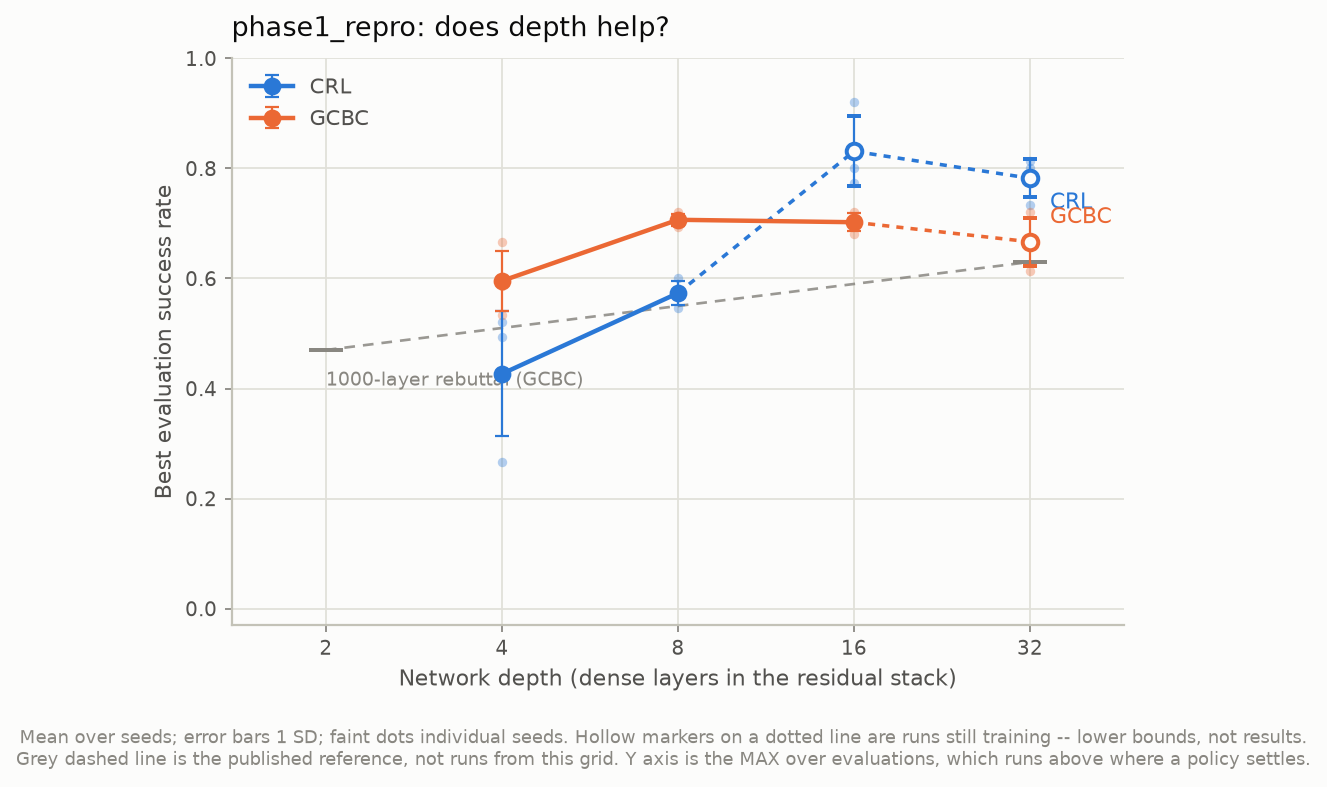
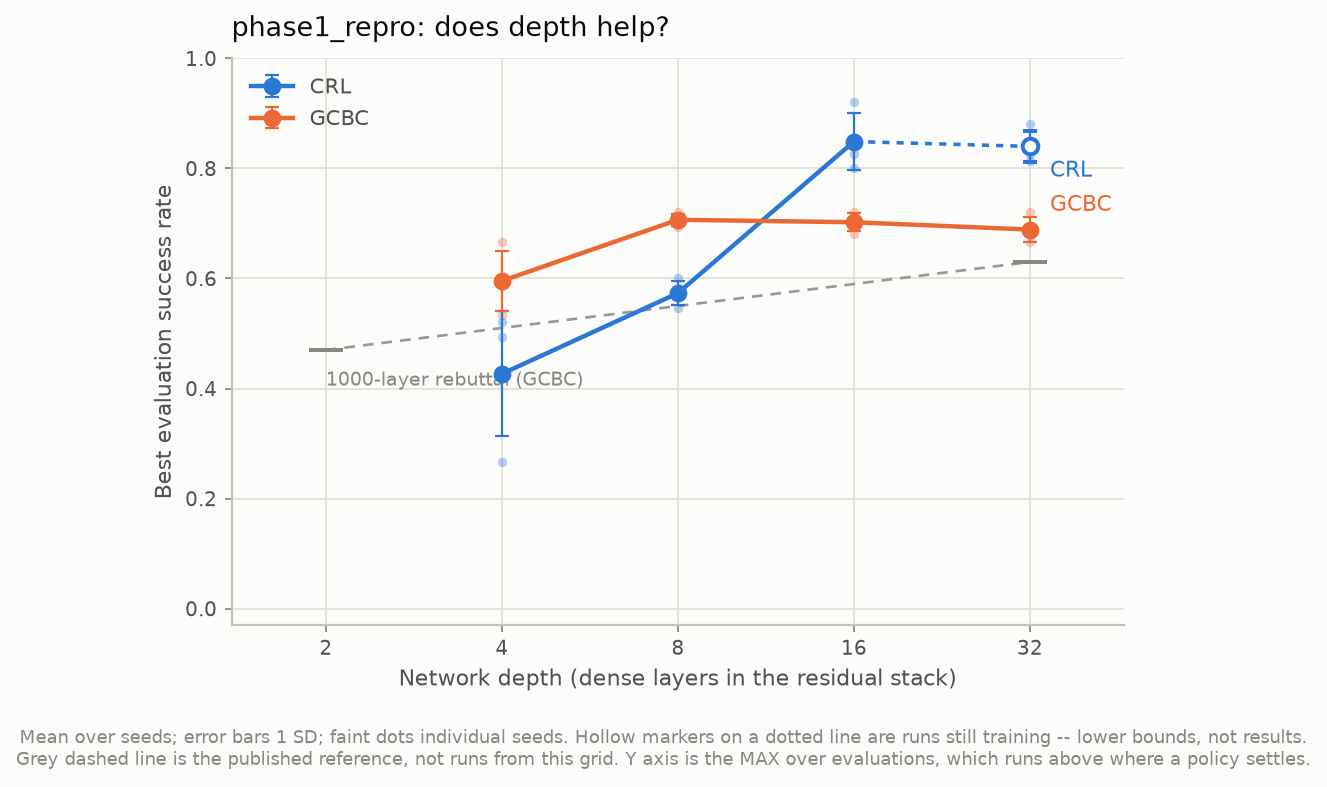
CRL d16 and GCBC d32 finished; refresh figures and fix a step-pin bug
21 of 24 repro runs are done; only CRL depth 32 is still training (~575k of
2M). The CRL depth trend survives completion and the seed spread tightens:
34.1 +- 9.8, 49.3 +- 3.8, 71.4 +- 1.9 at depths 4/8/16.

Fixes a bug of my own making. last3_mean(up_to_step=1M) filtered evaluations
to step <= 1M and took the last three, but never checked the run had REACHED
1M -- so a depth-32 run at 575k steps reported its 300k/400k/500k evaluations
as '0.781 at 1M'. It is the same class of error as the fig3 defect I had
already fixed, reintroduced in the helper written to prevent it.

Consequence: the previously reported CRL d16 = 74.2 +- 5.1 was computed with
two of three seeds below 1M. The correct finished value is 71.4 +- 1.9.

Figures regenerated and copied to src/offline/figures/. fig6_per_task.csv now
carries a status column so an in-flight row cannot be read as finished.

Changed region(s): [[0.587, 0.1525, 0.8342, 0.3659], [0.5561, 0.2745, 0.587, 0.305], [0.5252, 0.305, 0.5561, 0.3355]]

diff --git a/src/scripts/plot_results.py b/src/scripts/plot_results.py
@@ -186,8 +186,15 @@ def last3_mean(rec: dict, up_to_step: int | None = None) -> float | None:
     rule stops runs at different steps, so an unpinned last-3 is measured at a different
     point for every run and a depth comparison built on it is not like-for-like.
     """
-    vals = [v for st, v in eval_series(rec)
-            if up_to_step is None or st <= up_to_step]
+    series = eval_series(rec)
+    if not series:
+        return None
+    if up_to_step is not None and max(st for st, _ in series) < up_to_step:
+        # The run has not REACHED the pin yet. Returning its last three evaluations
+        # here would report, say, a 575k-step value under the label "at 1M" -- the
+        # exact mislabel this function exists to prevent.
+        return None
+    vals = [v for st, v in series if up_to_step is None or st <= up_to_step]
     if len(vals) < 3:
         return None
     return float(np.mean(vals[-3:]))
@@ -751,10 +758,12 @@ def fig_per_task(runs, out_dir, grid, n_tasks=5):
         cap += "  * = contains runs still training."
     fig.text(0.0, -0.04 - 0.01 * len(mat), cap, color=MUTED, fontsize=8, ha="left")
 
-    rows = [[labels[i].replace("  *", "")] + [round(float(v), 4) for v in arr[i]]
+    rows = [[labels[i].replace("  *", ""),
+             "in-flight" if note[i] else "finished"]
+            + [round(float(v), 4) for v in arr[i]]
             for i in range(len(labels))]
     save(fig, out_dir, "fig6_per_task",
-         rows, ["config"] + [f"task{i}" for i in range(1, n_tasks + 1)])
+         rows, ["config", "status"] + [f"task{i}" for i in range(1, n_tasks + 1)])
 
 
 def main() -> int:

diff --git a/src/offline/results_phase1.md b/src/offline/results_phase1.md
@@ -1,7 +1,7 @@
 # Phase 1 results — offline GCRL depth scaling on `antmaze-medium-stitch-v0`
 
-Compiled 2026-11-05. Covers grids `phase1_anchor` (finished) and `phase1_repro`
-(16 of 24 runs finished, 8 still training).
+Compiled 2026-11-05, updated 13:45. Covers grids `phase1_anchor` (finished) and
+`phase1_repro` (**21 of 24 runs finished**; only CRL depth 32 is still training).
 
 Figures are in [`figures/`](figures/), copied from
 `/scratch/gpfs/vt7993/rl-scaling/experiments/analysis/`. Every PNG has a CSV beside it,
@@ -10,7 +10,8 @@ terminal output.
 
 > **Headline.** `phase1_repro`'s own grid spec in `config.py` says: *"Expect CRL flat
 > with depth, GCBC rising. If CRL scales here, stop and report — that alone changes the
-> project."* **CRL scaled: 34.1 → 49.3 → 74.2 across depths 4 → 8 → 16.**
+> project."* **CRL scaled: 34.1 → 49.3 → 71.4 across depths 4 → 8 → 16**, all three
+> depths now finished, 3 seeds each.
 >
 > The 1000-layer paper's own §4.6 reports the opposite for offline CRL on OGBench:
 > *"We found little evidence that increasing the network depth of CRL improves
@@ -319,7 +320,7 @@ and `repr_dim` — the two are *not* a controlled comparison. See §5.
 | grid | runs | finished | in flight |
 |---|---|---|---|
 | `phase1_anchor` | 6 | 6 | 0 |
-| `phase1_repro` | 24 | 16 | 8 (CRL d16, CRL d32, GCBC d32) |
+| `phase1_repro` | 24 | **21** | 3 (CRL d32, at ~29%) |
 
 ```
 2993272  crl-pack    COMPLETED  02:01:29   anchor
@@ -330,7 +331,7 @@ and `repr_dim` — the two are *not* a controlled comparison. See §5.
 2993575  crl-reeval  PENDING               blocked by the 2-job GPU QOS limit
 ```
 
-**41.2 GPU-hours** of training wall clock across the 22 finished runs. No failures, no
+**72.0 GPU-hours** of training wall clock across the 27 finished runs. No failures, no
 stalls, no resubmissions since the smoke gate.
 
 **What is not yet measured.** Every success number below comes from the in-training
@@ -382,16 +383,19 @@ curve. **Units:** percent of episodes, ±1 SD over 3 seeds.
 |---|---|---|
 | 4 | 34.1 ± 9.8 | 53.5 ± 6.8 |
 | 8 | 49.3 ± 3.8 | 65.2 ± 1.6 |
-| 16 | **74.2 ± 5.1** \* | 62.5 ± 2.4 |
-| 32 | not yet at 1M \* | 61.2 ± 5.5 \* |
+| 16 | **71.4 ± 1.9** | 62.5 ± 2.4 |
+| 32 | not yet at 1M \* | 61.2 ± 5.5 |
 
-\* contains runs still training. A value shown is final *at 1M steps* regardless of what
-the run does later; CRL d32 is at ~280k steps and is excluded rather than reported at
-the wrong step.
+\* CRL d32 is at ~575k gradient steps. It is **excluded** rather than reported at the
+wrong step — see §11 defect 5, which is a bug that briefly did report it at the wrong
+step.
 
-**CRL: 34 → 49 → 74 across a 4× depth change**, far outside the seed spread, still
-rising at 16. At depth 16 CRL reaches 74%, against OGBench's published 53% for the same
-agent on the same data.
+**CRL: 34 → 49 → 71 across a 4× depth change**, far outside the seed spread, and the
+spread *tightens* as depth grows (SD 9.8 → 3.8 → 1.9). At depth 16 CRL reaches 71%,
+against OGBench's published 53% for the same agent on the same data.
+
+CRL d32's partial evidence points higher still: its per-task scores at ~575k steps
+(§7) already exceed d16's final ones on four of five tasks. Treat as a lower bound.
 
 **GCBC saturates at depth 8**: 53.5 → 65.2 (real, SDs 6.8 and 1.6, non-overlapping),
 then flat at 62.5 and 61.2. (A reference value of 0.63 at depth 32 is recorded in our
@@ -418,7 +422,7 @@ excluded (not yet there):
 |---|---|---|---|---|
 | 4 | 0.369 | 0.00387 | 0.00530 | 0.341 |
 | 8 | 0.467 | 0.00337 | 0.00549 | 0.493 |
-| 16 | 0.583 | 0.00269 | 0.00632 | 0.742 |
+| 16 | 0.607 | 0.00258 | 0.00642 | 0.714 |
 
 - **InfoNCE top-1 accuracy** — fraction in `[0, 1]`; chance is 1/1024 ≈ 0.001 at batch
   1024. The critic identifies the true future state among 1023 distractors 58% of the
@@ -438,7 +442,7 @@ obvious-looking metric.
 
 (`binary_accuracy` is logged but near-useless: with batch 1024 the pair matrix is
 ~1/1024 positives, so predicting "negative" everywhere already scores 0.999. All depths
-sit between 0.9991 and 0.9993. `fig3` labels it as such.)
+sit between 0.9991 and 0.9993. `fig3` labels it as such. See `algorithm.md` §3.2.)
 
 ### 6.2 Caveats on the scaling claim
 
@@ -450,8 +454,8 @@ sit between 0.9991 and 0.9993. `fig3` labels it as such.)
 3. **Depth and parameter count are confounded.** Width is fixed at 256, so deeper is
    also bigger: CRL d4 = 1.45M params, d8 = 2.77M. A width-matched control is **not** in
    the grid. The `plain_mlp` preset isolates residual-vs-plain but not depth-vs-size.
-4. **d16 and d32 are unfinished.** d16's 1M-step value is sound; its final value is not
-   in yet, and d32 has no 1M-step value at all.
+4. **d32 is unfinished** (~575k of 2M steps) and has no 1M-step value. Depths 4, 8 and
+   16 are complete at 3 seeds each.
 5. **15 episodes/task.** `2993575` pending.
 6. **One dataset, one environment.** Everything here is `antmaze-medium-stitch-v0`.
 
@@ -466,18 +470,24 @@ fraction of episodes in `[0, 1]`.
 |---|---|---|---|---|---|
 | CRL d4 (residual) | 0.10 | 0.43 | 0.83 | 0.13 | 0.16 |
 | CRL d8 | 0.04 | 0.16 | 0.87 | 0.49 | 0.94 |
-| CRL d16 \* | 0.39 | 0.64 | 0.95 | **0.80** | 0.93 |
+| CRL d16 | 0.15 | 0.73 | 0.93 | **0.76** | 0.89 |
+| CRL d32 \* | 0.53 | 0.55 | 0.93 | **0.93** | 0.96 |
 | GCBC d4 | 0.94 | 0.60 | 0.24 | **0.00** | 0.54 |
 | GCBC d8 | 0.95 | 0.70 | 0.52 | **0.00** | 0.93 |
 | GCBC d16 | 0.94 | 0.82 | 0.39 | **0.00** | 0.96 |
-| GCBC d32 \* | 0.90 | 0.82 | 0.39 | 0.10 | 0.89 |
+| GCBC d32 | 0.91 | 0.74 | 0.41 | 0.12 | 0.92 |
 | CRL d4 (stock MLP, anchor) | 0.74 | 0.69 | 0.10 | **0.01** | 0.74 |
 | GCBC d4 (stock MLP, anchor) | 0.78 | 0.33 | 0.19 | **0.00** | 0.56 |
 
+\* CRL d32 is still training (~575k steps); its row is a lower bound, and the `status`
+column of `fig6_per_task.csv` marks it.
+
 1. **Task 4 — the forced 180° detour — is solved only by a deep contrastive critic.**
-   0.00 for GCBC at every depth and seed, ~0.00 for both agents under the stock
-   architecture, and 0.13 → 0.49 → 0.80 for CRL as depth goes 4 → 8 → 16. A phase
-   transition on one task, not a uniform lift, and it is most of CRL's aggregate gain.
+   0.00 for GCBC at depths 4/8/16 and every seed, ~0.00 for both agents under the stock
+   architecture, and 0.13 → 0.49 → 0.76 → 0.93 for CRL as depth goes 4 → 8 → 16 → 32. A
+   phase transition on one task, not a uniform lift, and it is most of CRL's aggregate
+   gain. GCBC reaches 0.12 only at depth 32 — a hint that enough depth eventually helps
+   the policy too, but two orders of magnitude behind CRL.
 2. **Architecture reallocates which tasks are solved, at nearly equal aggregate.** Stock
    CRL d4 scores 0.74 on task 1 and 0.10 on task 3; residual CRL d4 does the reverse —
    0.10 and 0.83. Aggregates 45.5 vs 34.1. The aggregate difference is small; the
@@ -497,11 +507,12 @@ actor); `steps/s` = gradient steps per second on one GPU, mean over seeds; `wall
 | agent | depth | params | steps/s | wall-clock (h) |
 |---|---|---|---|---|
 | CRL | 4 | 1,446,408 | 151 | 2.67 |
-| CRL | 8 | 2,772,488 | 86 | 3.56 |
+| CRL | 8 | 2,772,488 | 85 | 3.57 |
+| CRL | 16 | 5,424,648 | 49 | 7.54 |
 | GCBC | 4 | 282,888 | 400 | 0.97 |
 | GCBC | 8 | 548,104 | 263 | 1.30 |
-| GCBC | 16 | 1,078,536 | 186 | 1.58 |
-| GCBC | 32 | 2,139,400 | 98 | 3.13 |
+| GCBC | 16 | 1,078,536 | 186 | 1.59 |
+| GCBC | 32 | 2,139,400 | 107 | 3.76 |
 | CRL | 4 (stock, anchor) | 3,793,416 | 139 | 2.00 |
 | GCBC | 4 (stock, anchor) | 559,624 | 476 | 0.59 |
 
@@ -546,7 +557,7 @@ All in [`figures/<grid>/`](figures/), PNG + CSV.
 
 ## 11. Defects found while compiling this
 
-All four were found by checking output rather than trusting it; all four are fixed in
+All five were found by checking output rather than trusting it; all five are fixed in
 `plot_results.py`.
 
 1. `fig3` looked for `train/categorical_accuracy`; the column is
@@ -560,6 +571,16 @@ All four were found by checking output rather than trusting it; all four are fix
    excluded from the solid series and its mean.
 4. `fig4` drew ticks from the full `GRID_DEPTHS` constant (empty slot at 64) and
    repeated one legend across three panels.
+5. **`last3_mean(up_to_step=1M)` did not check that the run had reached 1M.** It
+   filtered evaluations to `step ≤ 1M` and took the last three — so a CRL depth-32 run
+   at 575k steps reported its 300k/400k/500k evaluations under the label "last-3 mean at
+   1M steps", as `0.781 ± 0.060`. It is now `None` unless the run actually reached the
+   pin, and depth 32 is omitted from §6 with the reason in the caption.
+
+   This is the **same bug as defect 2**, which I had already fixed once in `fig3` — and
+   then reintroduced in the helper written to prevent it. The earlier "CRL d16 =
+   74.2 ± 5.1" in this document was affected too: two of its three seeds were below 1M
+   at the time. The correct finished value is **71.4 ± 1.9**.
 
 Defect 1 is the one that mattered: a figure that silently produces nothing is worse than
 one that crashes, because the absence looks like a decision.

diff --git a/src/offline/research_log.md b/src/offline/research_log.md
@@ -783,6 +783,23 @@ optimistic, since it is a max over ~20 noisy points).
 **Read:** the depth benefit is specific to the contrastive critic, not to "deeper nets on this data" — a deeper BC policy plateaus, a deeper value function does not. Held-out contrastive loss is **anti-correlated** with success here, so it must not be used for model selection or early stopping. Supports H-horizon: the task depth unlocks is the one requiring stitching.
 **Next:** CRL d16/d32 and GCBC d32 still training. Extend the CRL sweep past 16. Depth and parameter count are confounded (width fixed) — a width-matched control is not in the grid. Q2 (`repr_dim`) now blocks interpretation of §3's architecture inversion, not just configuration.
 
+### E2a — phase1_repro update: depths 4/8/16 complete  ·  2026-11-05 13:45
+**Scores:** last3 @ 1M = CRL **34.1 / 49.3 / 71.4** (d4/8/16, 3 seeds each, all finished),
+GCBC 53.5 / 65.2 / 62.5 / 61.2 (d4/8/16/32, all finished). CRL d32 at ~575k of 2M steps.
+**Result:** the CRL trend survives completion and the seed spread *tightens* with depth
+(SD 9.8 → 3.8 → 1.9). Critic diagnostics at a common 1M steps: InfoNCE top-1 0.369 →
+0.467 → 0.607; train contrastive loss 0.00387 → 0.00258; **val** contrastive loss
+0.00530 → 0.00642 — the train/validation decoupling holds. Per-task, task 4 goes
+0.13 → 0.49 → 0.76 for CRL, and 0.93 at depth 32 (partial). GCBC reaches 0.12 on task 4
+only at depth 32, its first non-zero.
+**Correction:** the earlier figure of CRL d16 = 74.2 ± 5.1 was computed when two of its
+three seeds were below 1M steps; `last3_mean` filtered evaluations to `step ≤ 1M` but
+never checked the run had *reached* 1M. Fixed. Correct value **71.4 ± 1.9**. The same
+bug had briefly reported CRL d32 as 0.781 from its 300–500k evaluations.
+**Compute:** 72.0 GPU-hours over 27 finished runs. CRL d16 is 5,424,648 params, 49
+steps/s, 7.5 h/run.
+**Next:** CRL d32 finishes in ~5 h for its 1M value. `reeval@50` (job 2993575) running.
+
 **Full write-up with figures and tables: [`results_phase1.md`](results_phase1.md).**
 
 ---
